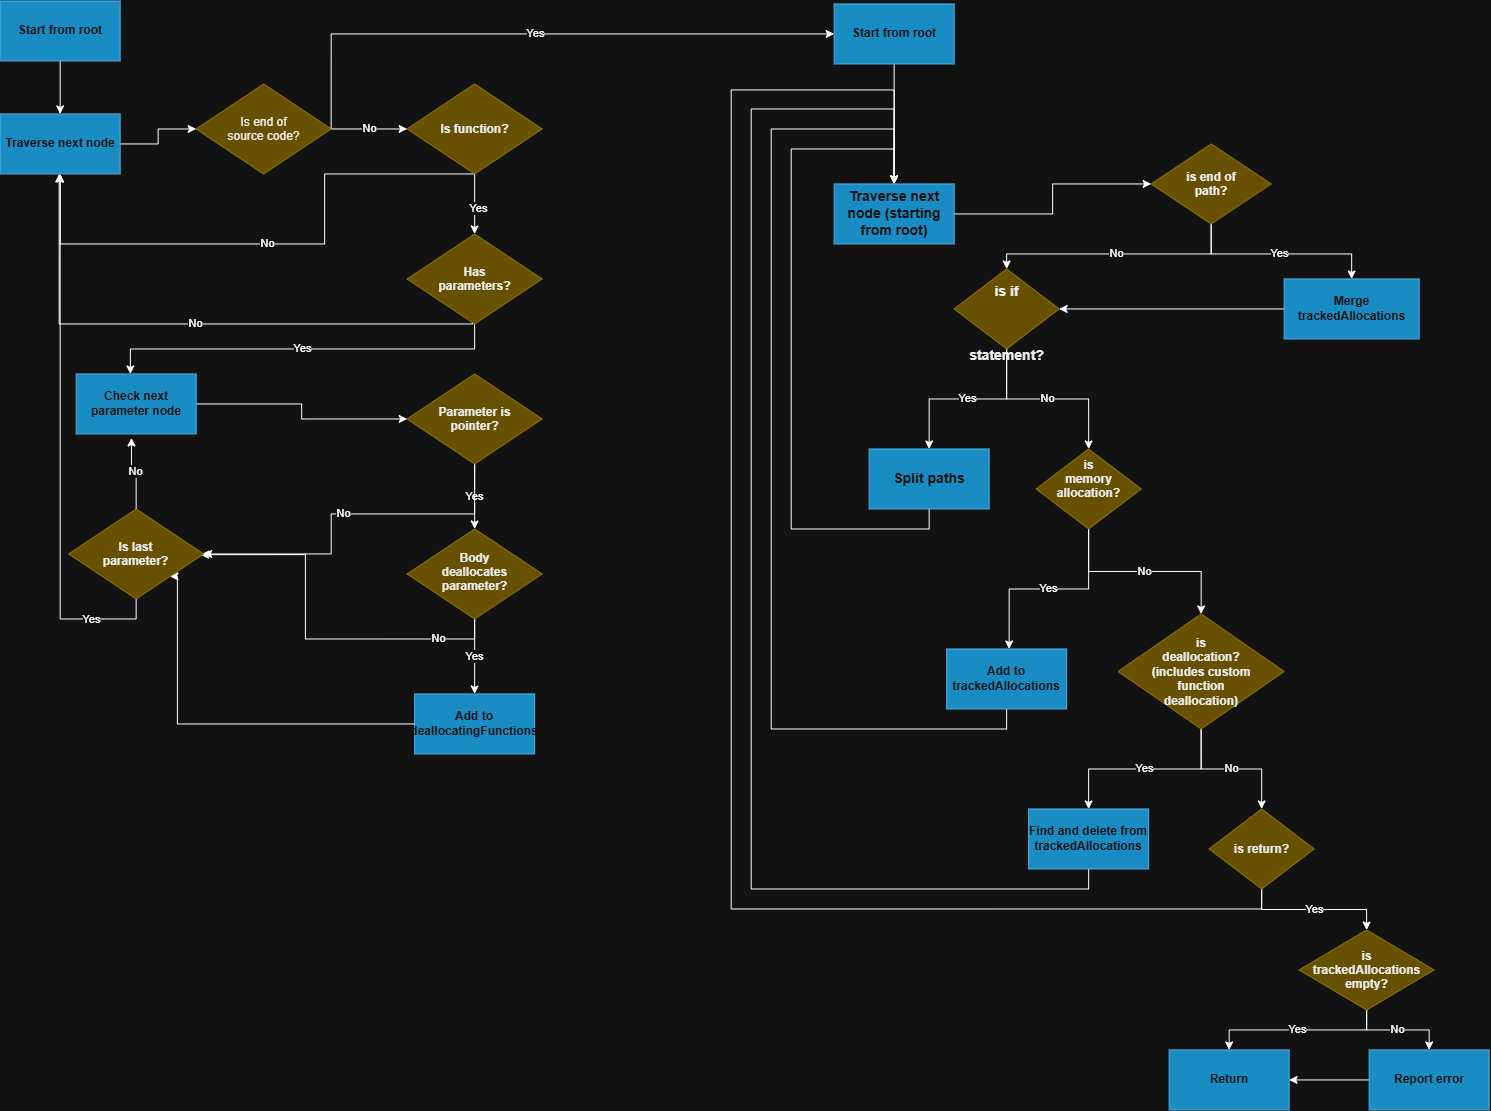
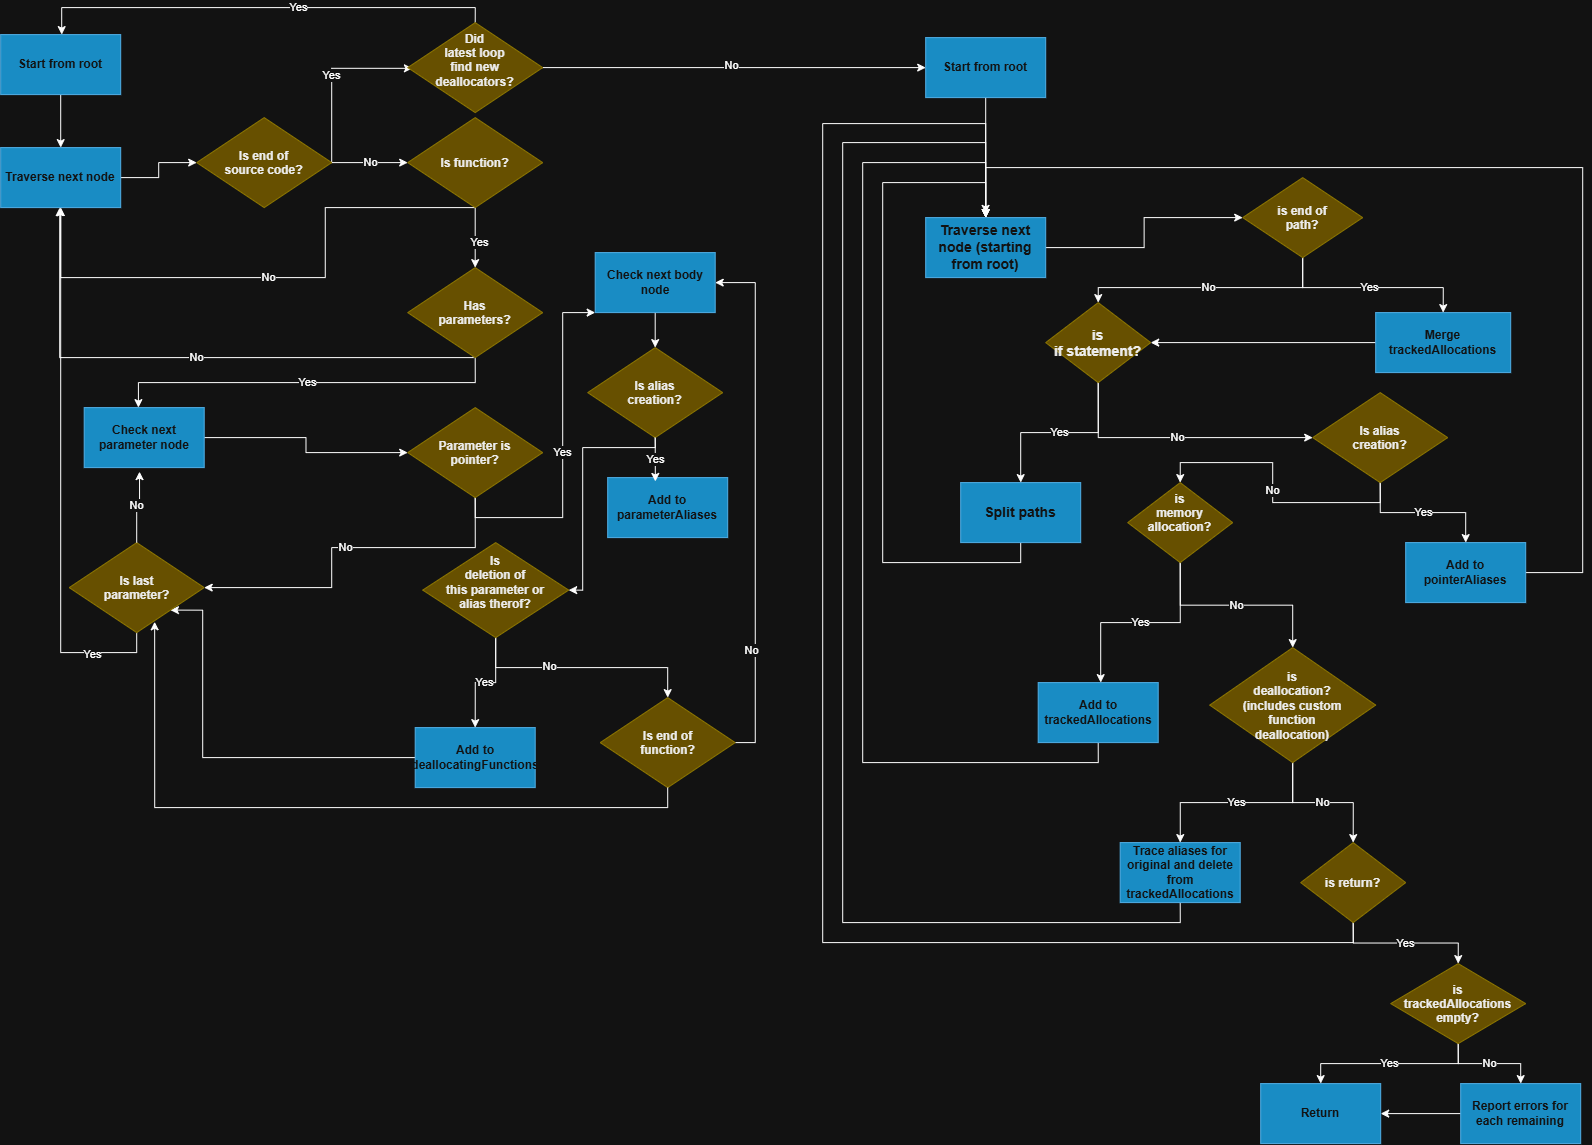
added universal tests and documented real world tests

diff --git a/index.html b/index.html
@@ -1252,22 +1252,68 @@ never uses it. (line 1)</pre></div>
   <section class="section" id="benchmarking">
     <p class="section-label">// 07 &nbsp;benchmarking</p>
     <h2>Benchmarking</h2>
+    <p class="section-intro">Two complementary multi-file checks: a real-world annotated application and a controlled universal scenario covering every registered detector.</p>
 
     <div class="todo-card">
-      <span class="todo-badge">TODO — fill in</span>
-      <h4>Detected / refactored code from real-world C++ projects</h4>
-      <p>Run the tool against a real open-source C++ repository (or a few files pulled from one) and report what it actually found — true positives, false positives you noticed, and what the auto-fix changed. This is the strongest evidence the tool works outside your own test fixtures.</p>
+      <h3>Shared run method</h3>
+      <ul>
+        <li>Built executable: <code>build/Debug/project4.exe</code>.</li>
+        <li>Source paths were entered as one space-separated line. Every automatic-fix prompt was answered <code>n</code>, so all scenario files remained unchanged.</li>
+      </ul>
     </div>
+
+    <h3>SmellyAnnotated: real-world application</h3>
+    <p class="section-intro">A small pizza-shop application distributed across seven implementation files. Headers, object files, and the dataset's prebuilt executable were not analyzed.</p>
     <div class="data-table-wrap">
       <table class="data-table">
         <thead>
-          <tr><th>Project</th><th>File(s) analyzed</th><th>Smells found</th><th>Auto-fixed</th></tr>
+          <tr><th>File analyzed</th><th>Warnings</th><th>Auto-fixed</th></tr>
         </thead>
         <tbody>
-          <tr><td class="tbd">TBD</td><td class="tbd">TBD</td><td class="tbd">TBD</td><td class="tbd">TBD</td></tr>
+          <tr><td><code>Cashier.cpp</code></td><td>22</td><td>0</td></tr>
+          <tr><td><code>Chef.cpp</code></td><td>9</td><td>0</td></tr>
+          <tr><td><code>Customer.cpp</code></td><td>20</td><td>0</td></tr>
+          <tr><td><code>Drink.cpp</code></td><td>10</td><td>0</td></tr>
+          <tr><td><code>main.cpp</code></td><td>2</td><td>0</td></tr>
+          <tr><td><code>Pizza.cpp</code></td><td>16</td><td>0</td></tr>
+          <tr><td><code>Shop.cpp</code></td><td>7</td><td>0</td></tr>
+          <tr><td><strong>SmellyAnnotated total</strong></td><td><strong>86</strong></td><td><strong>0</strong></td></tr>
         </tbody>
       </table>
     </div>
+    <div class="todo-card">
+      <h4>SmellyAnnotated audit</h4>
+      <ul>
+        <li>73 missing-comment warnings, 6 long-parameter-list warnings, and 5 poor-name warnings.</li>
+        <li>2 memory-leak warnings and 1 deeply nested conditional warning.</li>
+        <li>Likely false negatives include constructor ownership, cross-file unused methods, repeated calls, and header-only data clumps. Likely false positives include descriptive boolean names and an <code>else-if</code> chain reported as deep.</li>
+        <li>These are raw detector reports, not confirmed true-positive counts. The source annotations also include smell categories that the current detectors do not implement.</li>
+      </ul>
+    </div>
+
+    <h3>UniversalAnnotated: detector coverage</h3>
+    <p class="section-intro">A controlled multi-file scenario designed to exercise all 10 currently registered detectors, paired with a longer clean control.</p>
+    <div class="data-table-wrap">
+      <table class="data-table">
+        <thead>
+          <tr><th>Scenario file</th><th>Purpose</th><th>Warnings</th><th>Auto-fixed</th></tr>
+        </thead>
+        <tbody>
+          <tr><td><code>universal_smelly.cpp</code></td><td>Positive coverage case for all registered detectors</td><td>20</td><td>0</td></tr>
+          <tr><td><code>universal_clean.cpp</code></td><td>Long, documented clean control</td><td>0</td><td>0</td></tr>
+          <tr><td><strong>UniversalAnnotated total</strong></td><td>2 C++ source files</td><td><strong>20</strong></td><td><strong>0</strong></td></tr>
+        </tbody>
+      </table>
+    </div>
+    <div class="todo-card">
+      <h4>UniversalAnnotated result</h4>
+      <ul>
+        <li>The smelly file produced at least one warning in each of the 10 registered categories.</li>
+        <li>The expanded clean control passed with 0 warnings.</li>
+        <li>Data-clump naming runs offline with the deterministic <code>DataGroup</code> fallback when no Gemini API key is configured.</li>
+      </ul>
+    </div>
+    <p class="section-intro">Both benchmark results are exploratory measurements, not precision or recall studies. The projects do not have machine-readable expected-warning manifests.</p>
   </section>
 
   <!-- ============================================================

diff --git a/tests/UniversalAnnotated/universal_smelly.cpp b/tests/UniversalAnnotated/universal_smelly.cpp
@@ -1,0 +1,76 @@
+#include <iostream>
+#include <string>
+
+// Repeated parameter groups exercise the data-clump detector.
+void clumpOne(std::string firstName, std::string lastName, std::string city) {
+    std::cout << firstName << lastName << city << std::endl;
+}
+
+void clumpTwo(std::string firstName, std::string lastName, std::string city) {
+    std::cout << firstName << lastName << city << std::endl;
+}
+
+void clumpThree(std::string firstName, std::string lastName, std::string city) {
+    std::cout << firstName << lastName << city << std::endl;
+}
+
+// Intentionally has no descriptive comment immediately before the function.
+int universalSmellyMain() {
+    int x = 0;
+    bool ready = true;
+    if (ready == true) {
+        x = x + 1;
+    }
+
+    x = x + 1;
+    x = x + 2;
+    x = x + 3;
+    x = x + 1;
+    x = x + 2;
+    x = x + 3;
+
+    if (x > 0) {
+        if (x > 1) {
+            if (x > 2) {
+                if (x > 3) {
+                    x++;
+                }
+            }
+        }
+    }
+
+    clumpOne("A", "B", "C");
+    clumpTwo("A", "B", "C");
+    clumpThree("A", "B", "C");
+    return x;
+}
+
+int tooManyParameters(int first, int second, int third, int fourth, int fifth) {
+    return first + second + third + fourth + fifth;
+}
+
+void leakedAllocation() {
+    int* leaked = new int;
+    std::cout << *leaked << std::endl;
+}
+
+class BaseUniversal {
+public:
+    virtual void keep() {}
+};
+
+class UnusedBaseUniversal : public BaseUniversal {
+public:
+    void ownWork() {}
+};
+
+void unusedFunction() {}
+
+int main() {
+    std::cout << universalSmellyMain() << std::endl;
+    std::cout << tooManyParameters(1, 2, 3, 4, 5) << std::endl;
+    leakedAllocation();
+    UnusedBaseUniversal value;
+    value.ownWork();
+    return 0;
+}

diff --git a/tests/UniversalAnnotated/universal_clean.cpp b/tests/UniversalAnnotated/universal_clean.cpp
@@ -1,0 +1,48 @@
+#include <iostream>
+#include <algorithm>
+#include <numeric>
+#include <string>
+#include <vector>
+
+struct OrderSummary {
+    std::string customerName;
+    std::vector<int> itemPrices;
+};
+
+// Returns the total value of one order.
+int calculateTotal(const OrderSummary& order) {
+    return std::accumulate(order.itemPrices.begin(), order.itemPrices.end(), 0);
+}
+
+// Returns a sorted copy so callers retain their original item order.
+std::vector<int> sortedPrices(const OrderSummary& order) {
+    std::vector<int> prices = order.itemPrices;
+    std::sort(prices.begin(), prices.end());
+    return prices;
+}
+
+// Formats one summary for the clean-control report.
+std::string formatSummary(const OrderSummary& order, int total) {
+    return order.customerName + " order total: " + std::to_string(total);
+}
+
+// Accepts only orders with a name and at least one non-negative price.
+bool isValidOrder(const OrderSummary& order) {
+    if (order.customerName.empty()) {
+        return false;
+    }
+    return std::all_of(order.itemPrices.begin(), order.itemPrices.end(),
+        [](int price) { return price >= 0; });
+}
+
+// Runs the clean-control scenario with a small realistic order workflow.
+int main() {
+    OrderSummary order{"Avery", {12, 8, 15, 6}};
+    if (isValidOrder(order)) {
+        const std::vector<int> prices = sortedPrices(order);
+        const int total = calculateTotal(order);
+        std::cout << formatSummary(order, total) << std::endl;
+        std::cout << "Lowest item: " << prices.front() << std::endl;
+    }
+    return 0;
+}

diff --git a/DataClumpNameGen.cpp b/DataClumpNameGen.cpp
@@ -48,7 +48,7 @@ std::string DataClumpNameGen::generateName(const std::string& variableList) {
     std::string apiKey = getKey();
     if (apiKey.empty()) {
         std::cout << "GOOGLE_GEMINI_API_KEY is not set in .env file." << std::endl;
-        throw std::runtime_error("GOOGLE_GEMINI_API_KEY is not set.");
+        return "DataGroup";
     }
 
     CURLcode initialize = curl_global_init(CURL_GLOBAL_DEFAULT);

diff --git a/tests/UniversalAnnotated/README.md b/tests/UniversalAnnotated/README.md
@@ -1,0 +1,18 @@
+# Universal annotated scenario
+
+This folder is a multi-file universal test for the detectors currently registered in `SmellyCodeDetector`.
+
+- `universal_smelly.cpp` intentionally exercises poor naming, redundant boolean comparison, repeated code, missing comments, deep conditionals, data clumps, memory leaks, long parameter lists, unused functions, and unused inheritance.
+- `universal_clean.cpp` is a clean control expected to produce no warnings.
+- The scenario is run through `build/Debug/project4.exe`, which accepts space-separated source paths on its first input line. Answer `n` to each automatic-fix prompt so the fixtures remain unchanged.
+- Some detectors depend on whole-program context or exact AST patterns, so the manifest is an expectation of coverage rather than a claim that every annotated smell must be reported.
+
+## Expected coverage
+
+`universal_smelly.cpp` contains an intentional case for every currently registered detector: `Data Clump`, `Comments`, `Poor Naming`, `Redundant boolean comparison`, `repeated-code`, `deep-if`, `Long Parameter List`, `memory-leak`, `unused-function`, and `unused-inheritance`.
+
+The clean control is expected to pass with zero warnings. The smelly scenario is expected to fail the clean-report check while producing at least one warning in each of those ten categories.
+
+## Recorded run
+
+Using the rebuilt `build/Debug/project4.exe`, the smelly scenario produced 20 warnings across all ten categories. The clean control produced 0 warnings. No fixes were applied. The missing API-key fallback in `DataClumpNameGen` returns the deterministic name `DataGroup`, allowing this test to run offline.
